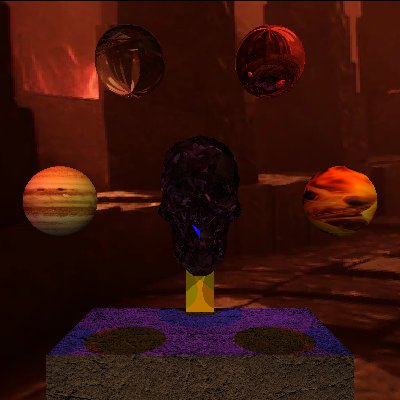
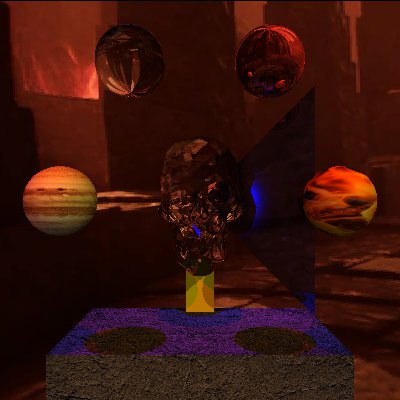
finalized

Changed region(s): [[0.39, 0.21, 0.81, 0.69], [0.66, 0.63, 0.81, 0.78], [0.66, 0.21, 0.72, 0.24]]

diff --git a/main.py b/main.py
@@ -26,7 +26,7 @@ raytracer.lights.append(DirectionalLight(direction=(1,-1,-1),intensity=0.4,color
 raytracer.lights.append(DirectionalLight(direction=(0,-1,0),intensity=0.4,color=(1,0,0)))
 raytracer.lights.append(PointLight(point=(0,0,-7),intensity=500,color=(0,0,1)))
 raytracer.camPosition = [0,0,3]
-hex = Obj3D('skull_low.obj',material=SAPHIRE,scale=(0.2,0.2,0.2),translate=(0,0,-10))
+hex = Obj3D('skull_low.obj',material=glass,scale=(0.2,0.2,0.2),translate=(0,0,-10))
 raytracer.scene.append(hex)
 raytracer.scene.append(Cube(position=(0,-6,-8),size=(8,4,4),material=Hard_ROCK))
 raytracer.scene.append(Cube(position=(0,-4,-10),size=(1,4,1),material=GOLD))
@@ -34,7 +34,7 @@ raytracer.scene.append(Sphere(material=earth,position=(-4,0,-7),radius=1))
 raytracer.scene.append(Sphere(material=diamond,position=(-2,4,-7),radius=1))
 raytracer.scene.append(Sphere(material=fire,position=(4,0,-7),radius=1))
 raytracer.scene.append(Sphere(material=mirror,position=(2,4,-7),radius=1))
-
+raytracer.scene.append(Triangle(material=blueMirror,vertices=[(4,4,-9),(4,-4,-9),(0,0,-10)]))
 raytracer.rtClear()
 raytracer.rtRender()
 

diff --git a/figures.py b/figures.py
@@ -57,7 +57,7 @@ class Sphere(Shape):
     
 
 class Triangle(Shape):
-    def __init__(self,material,vertices,txt):
+    def __init__(self,material,vertices,txt=None):
         self.A = vertices[0]
         self.B = vertices[1]
         self.C = vertices[2]
